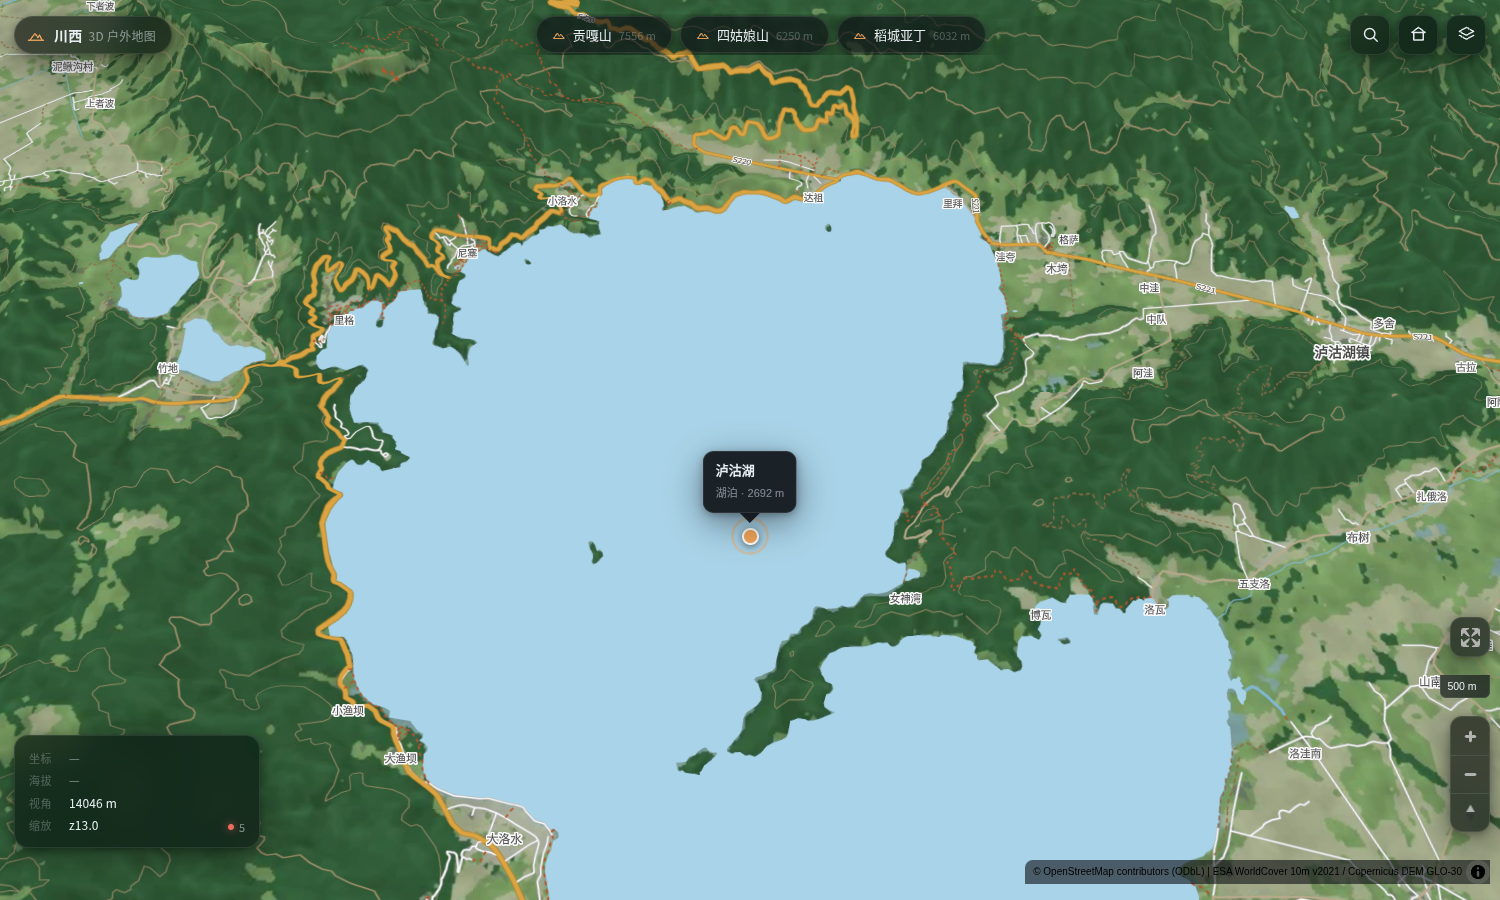
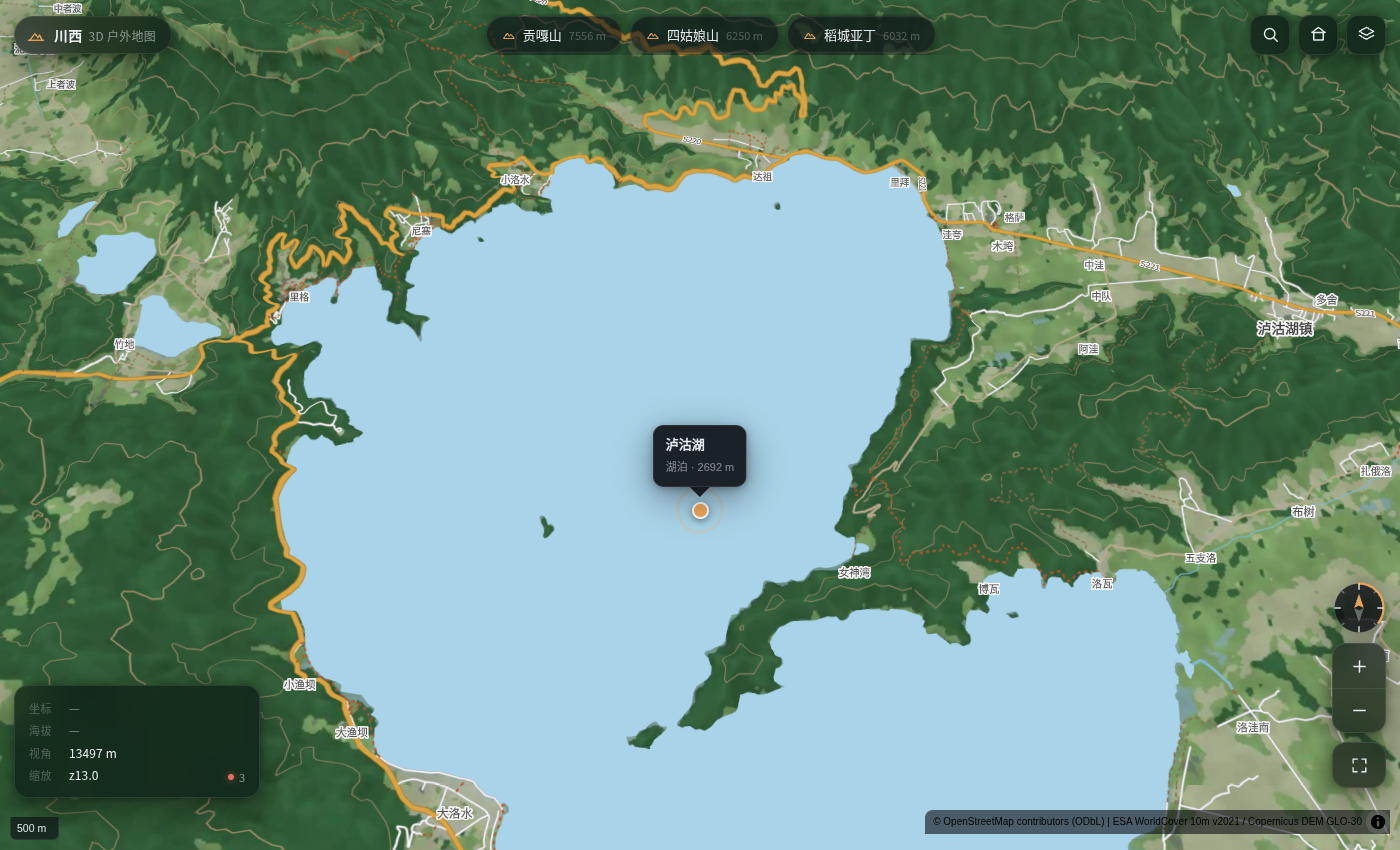
搜索结果统一落到 z13，俯角按类型保留

diff --git a/src/ui/search.ts b/src/ui/search.ts
@@ -19,22 +19,25 @@ interface Entry {
   pyi: string;
 }
 
-/** 类型 → 跳转参数 */
-const FLY: Record<string, { zoom: number; pitch: number }> = {
-  city: { zoom: 11, pitch: 0 },
-  town: { zoom: 12, pitch: 0 },
-  village: { zoom: 13.5, pitch: 0 },
-  hamlet: { zoom: 14.5, pitch: 0 },
-  district: { zoom: 15, pitch: 0 },
-  peak: { zoom: 15.5, pitch: 55 },
-  saddle: { zoom: 15.5, pitch: 55 },
-  hut: { zoom: 16, pitch: 55 },
-  camp: { zoom: 15.5, pitch: 55 },
-  viewpoint: { zoom: 16, pitch: 55 },
-  lake: { zoom: 13, pitch: 30 },
-  river: { zoom: 13, pitch: 0 },
-  trail: { zoom: 13, pitch: 30 },
-  road: { zoom: 12, pitch: 0 },
+/** 搜索结果的落点缩放：统一 z13（再近就只剩一片坡了） */
+const SEARCH_ZOOM = 13;
+
+/** 类型 → 落点俯角（山峰/营地这些给点立体感，村镇保持平视） */
+const PITCH: Record<string, number> = {
+  city: 0,
+  town: 0,
+  village: 0,
+  hamlet: 0,
+  district: 0,
+  peak: 55,
+  saddle: 55,
+  hut: 55,
+  camp: 55,
+  viewpoint: 55,
+  lake: 30,
+  river: 0,
+  trail: 30,
+  road: 0,
 };
 
 const TYPE_LABEL: Record<string, string> = {
@@ -328,8 +331,12 @@ export function installSearch(map: maplibregl.Map) {
       .addTo(map);
     marker.togglePopup();
 
-    const f = FLY[e.type] ?? { zoom: 14, pitch: 0 };
-    map.flyTo({ center: [e.lon, e.lat], zoom: f.zoom, pitch: f.pitch, duration: 1800 });
+    map.flyTo({
+      center: [e.lon, e.lat],
+      zoom: SEARCH_ZOOM,
+      pitch: PITCH[e.type] ?? 0,
+      duration: 1800,
+    });
   }
 
   // ── 开关 ──────────────────────────────────────────────────
